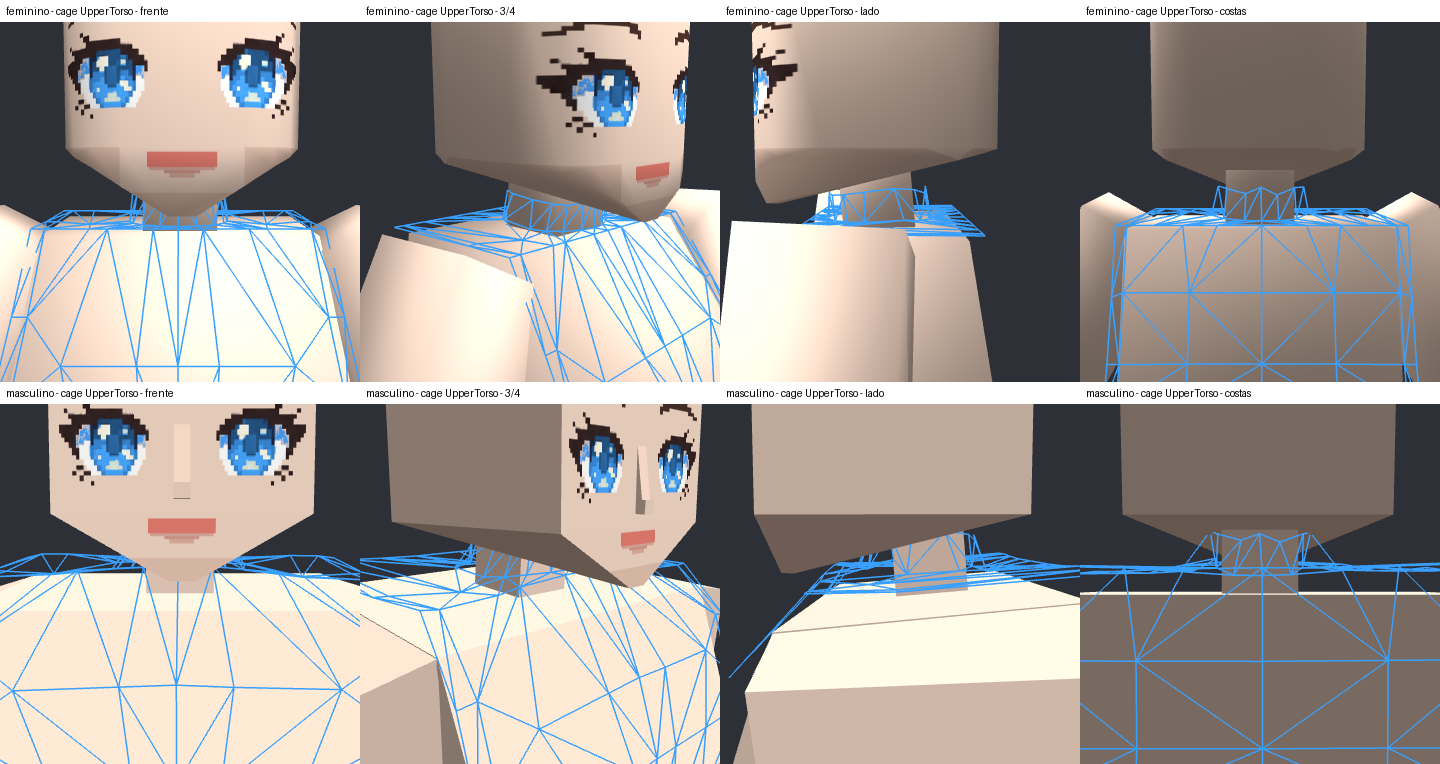
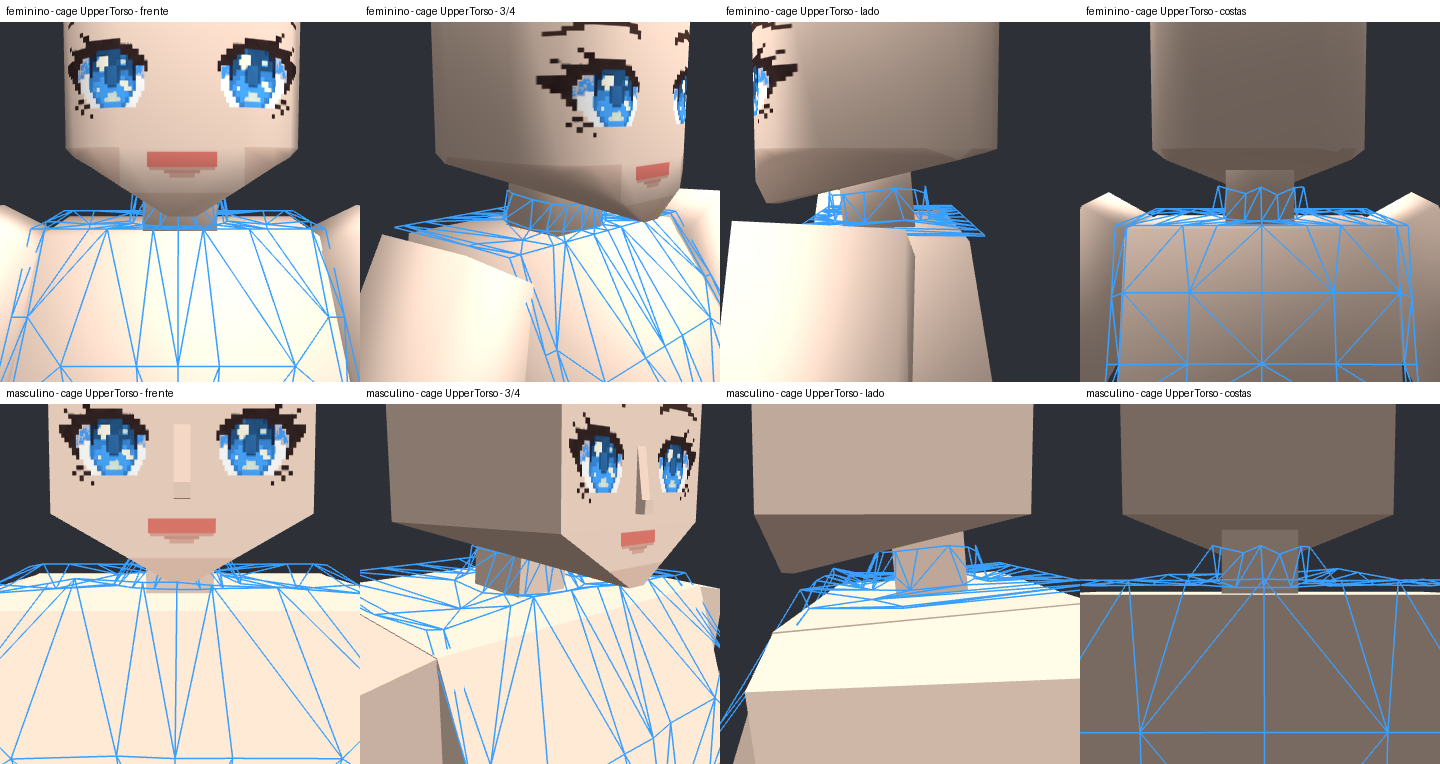
feat(clothing): anéis da cage masculina seguem as linhas de arestas (inclinadas) do corpo
- Cada linha de arestas do tórax é ajustada como plano inclinado pelos seus
  4 cantos (no masculino a linha do peitoral vai de y 1,15 a 1,25); um ponto
  da cage fica na mesma fração entre as linhas correspondentes do corpo
  masculino, na sua posição x/z.
- Projeção na superfície de folga sempre para fora (normal da pele).
- Inflação anticolisão local: o empurrão decai em poucos anéis de vizinhos
  em vez de inflar a cage inteira.

Tórax: 0 colisões, distância à pele 1,15 cm de mediana (fem 1,07), máx 3,1.

Changed region(s): [[0.0, 0.6924, 0.5312, 1.0], [0.5312, 0.6924, 1.0, 1.0]]

diff --git a/scripts/build_male_cage.py b/scripts/build_male_cage.py
@@ -42,6 +42,8 @@ PARTS = {"UpperTorso": ["Export_torso", "Export_pecoco"]}
 # Cage part -> (collar group, the group it stands on): points closer to the collar group
 # move rigidly with it, standing on the other group's top.
 COLLARS = {"UpperTorso": ("Export_pecoco", "Export_torso")}
+# Cage part -> (body group, number of edge loops): the cage's rings follow those loops.
+EDGE_LOOPS = {"UpperTorso": ("Export_torso", 4)}
 UP = 1
 
 
@@ -223,7 +225,7 @@ def collisions(cage_points, cage_faces, skin_vertices, skin_faces, visible, reac
 
 
 def resolve_collisions(cage_points, cage_faces, skin_vertices, skin_faces, visible, clearance=0.005,
-                       iterations=150, reach=0.06, total_limit=0.06):
+                       iterations=150, reach=0.06, total_limit=0.06, spread=0.5):
     """Inflate the cage smoothly until no skin pokes through it and no cage point is inside.
 
     Each iteration, every poking skin sample asks the corners of the cage triangle
@@ -264,19 +266,57 @@ def resolve_collisions(cage_points, cage_faces, skin_vertices, skin_faces, visib
                     push[corner] = sample_normals[sample] * value
         push[inside] += skin_face_normals[s_face][inside] * (clearance - gap[inside])[:, None]
         displacement += push
-        # Spread: blend each point's displacement with its neighbours' mean, never below
-        # what it was asked for.
+        # Spread locally: a point takes at least ``spread`` of its neighbours' mean push, so
+        # a bulge fades over a few rings instead of inflating the whole cage.
         total = np.zeros_like(displacement)
         np.add.at(total, edges[:, 0], displacement[edges[:, 1]])
         np.add.at(total, edges[:, 1], displacement[edges[:, 0]])
-        mean = total / np.maximum(degree, 1)[:, None]
-        smoothed = 0.5 * displacement + 0.5 * mean
-        keep = np.linalg.norm(smoothed, axis=1) < np.linalg.norm(displacement, axis=1)
-        smoothed[keep & (np.linalg.norm(push, axis=1) > 0)] = displacement[keep & (np.linalg.norm(push, axis=1) > 0)]
-        displacement = smoothed
+        mean = spread * total / np.maximum(degree, 1)[:, None]
+        raise_it = np.linalg.norm(mean, axis=1) > np.linalg.norm(displacement, axis=1)
+        displacement[raise_it] = mean[raise_it]
         length = np.linalg.norm(displacement, axis=1, keepdims=True)
         displacement *= np.minimum(1.0, total_limit / np.maximum(length, 1e-12))
     return (base + displacement)[weld]
+
+
+def edge_loop_planes(vertices, rows):
+    """The body group's horizontal edge loops, each fitted as a plane y = a + b*x + c*z.
+
+    A box-like part is ``rows`` rings of corners; on the male chest they tilt (the pec
+    line runs from 1.15 at one face to 1.25 at the other), so a ring is a tilted plane.
+    """
+    corners = np.unique(np.round(vertices, 4), axis=0)
+    corners = corners[np.argsort(corners[:, UP])]
+    planes = []
+    for ring in np.array_split(corners, rows):
+        design = np.column_stack((np.ones(len(ring)), ring[:, 0], ring[:, 2]))
+        planes.append(np.linalg.lstsq(design, ring[:, UP], rcond=None)[0])
+    return np.array(planes)
+
+
+def follow_edge_loops(female_points, male_points, female_vertices, male_vertices, rows=4):
+    """Heights of the male cage points set by the edge loops of both bodies.
+
+    A point between two female loops (at its own x, z) keeps its fraction of the way
+    between the matching male loops (at its male x, z), so the cage's rings run along
+    the male body's edge loops, tilt included. Beyond the first and last loops it
+    keeps its distance to them.
+    """
+    f_planes, m_planes = edge_loop_planes(female_vertices, rows), edge_loop_planes(male_vertices, rows)
+    heights = lambda planes, points: planes[:, 0][None] + points[:, [0]] * planes[:, 1][None] + points[:, [2]] * planes[:, 2][None]
+    f_loops, m_loops = heights(f_planes, female_points), heights(m_planes, male_points)
+    result = male_points.copy()
+    for index, y in enumerate(female_points[:, UP]):
+        f, m = f_loops[index], m_loops[index]
+        if y <= f[0]:
+            result[index, UP] = m[0] + (y - f[0])
+        elif y >= f[-1]:
+            result[index, UP] = m[-1] + (y - f[-1])
+        else:
+            k = int(np.searchsorted(f, y) - 1)
+            t = (y - f[k]) / max(f[k + 1] - f[k], 1e-9)
+            result[index, UP] = m[k] + t * (m[k + 1] - m[k])
+    return result
 
 
 def cage_edges(cage_points, cage_faces):
@@ -311,13 +351,14 @@ def shrink_wrap(points, female_distance, skin_vertices, skin_faces, cage_faces, 
         np.add.at(total, edges[:, 0], welded[edges[:, 1]])
         np.add.at(total, edges[:, 1], welded[edges[:, 0]])
         relaxed = welded + relax * (total / np.maximum(degree, 1)[:, None] - welded)
-        _, _, closest = closest_on_mesh(relaxed, skin_vertices, skin_faces)
+        face, _, closest = closest_on_mesh(relaxed, skin_vertices, skin_faces)
         offset = relaxed - closest
         length = np.linalg.norm(offset, axis=1)
-        # Points that relaxed inside the skin keep their previous side.
-        _, _, previous = closest_on_mesh(welded, skin_vertices, skin_faces)
-        flip = (offset * (welded - previous)).sum(1) < 0
-        offset[flip] *= -1
+        # Always to the outside of the skin: points left inside go out along the skin normal.
+        normal = face_normals(skin_vertices, skin_faces)[face]
+        inward = (offset * normal).sum(1) < 0
+        offset[inward] = normal[inward]
+        length[inward] = 1.0
         projected = closest + offset / np.maximum(length, 1e-9)[:, None] * distance[:, None]
         welded = np.where(still[:, None], welded, projected)
     return welded[weld]
@@ -342,6 +383,10 @@ def main():
         female_groups = [body_part(FEMALE_BODY, [g]) for g in groups]
         male_groups = [body_part(MALE_BODY, [g]) for g in groups]
         male_cage = warp_transfer(cage, female_groups, male_groups)
+        if part in EDGE_LOOPS:
+            group, rows = EDGE_LOOPS[part]
+            k = groups.index(group)
+            male_cage = follow_edge_loops(cage, male_cage, female_groups[k][0], male_groups[k][0], rows)
         if part in COLLARS:
             collar, base = (groups.index(g) for g in COLLARS[part])
             male_cage = move_collar(cage, male_cage, female_groups[collar], male_groups[collar],
